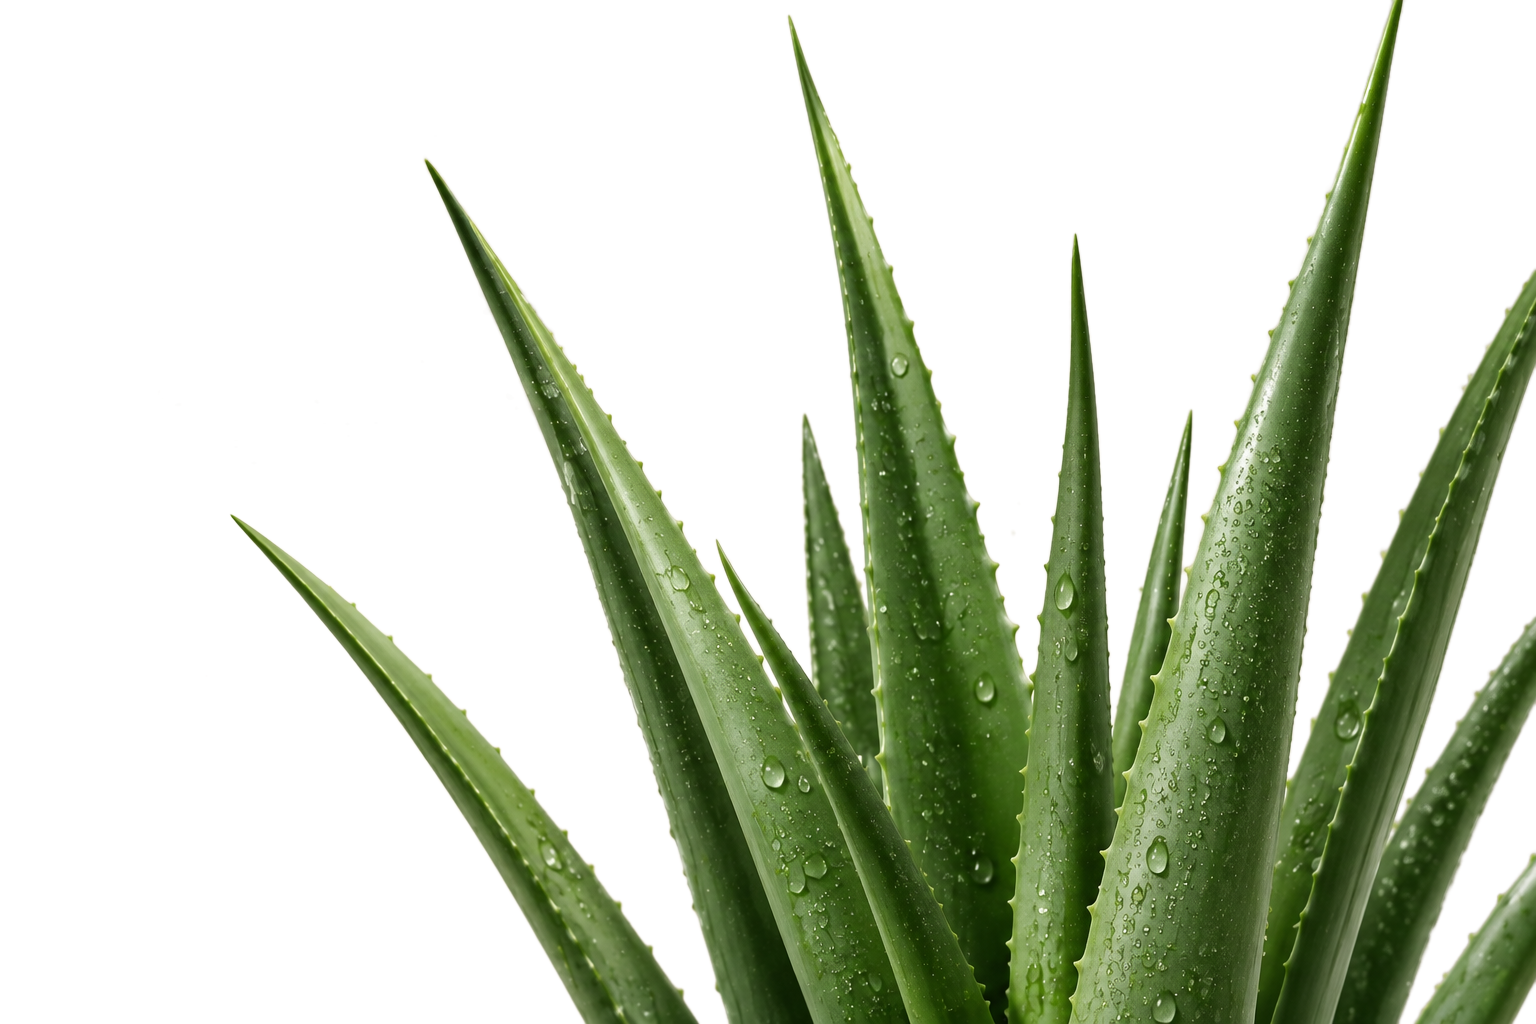
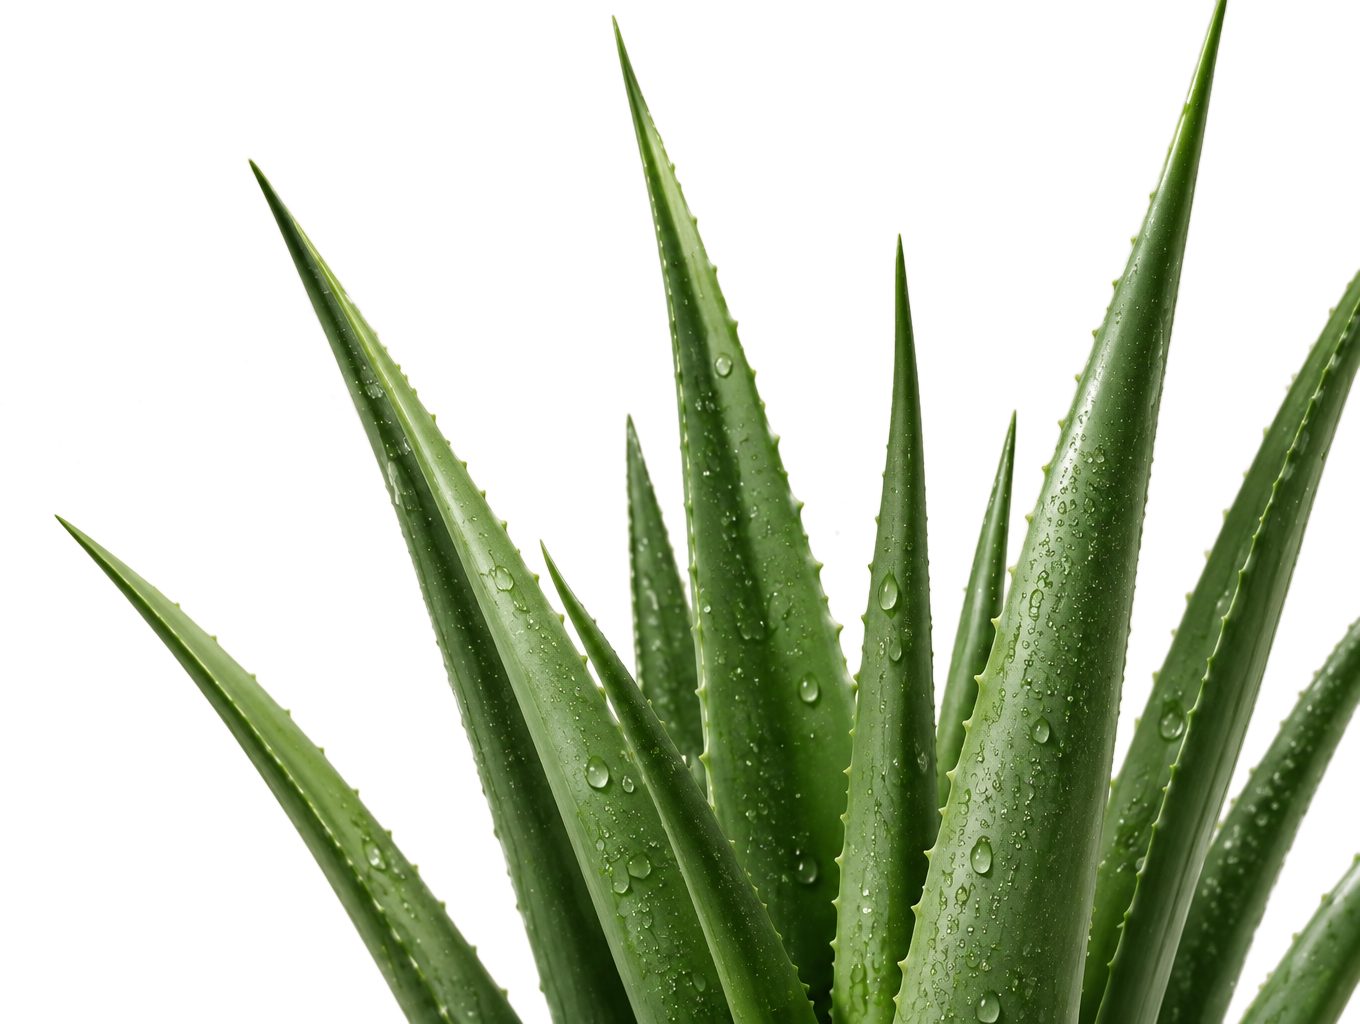
Show the sequence objects contained, not full-bleed
The aloe and the treatment photo now pass in front of a large pale word as
sized objects, matching the reference, instead of filling the frame. The
cut-out is trimmed to the plant so it centres on its own bounds, and the
unused back plate is dropped.

make-aloe-layers.py now emits only the cut-out and takes its source from
ALOE_SRC; its imports are restored.

diff --git a/src/components/NourishSection.tsx b/src/components/NourishSection.tsx
@@ -4,26 +4,23 @@ import Image from "next/image";
 import { useEffect, useRef, useState } from "react";
 
 /**
- * Scroll-driven botanical sequence.
+ * Scroll-driven statement section.
  *
- * The section is deliberately tall; its inner frame is sticky, so scrolling
- * through it scrubs a timeline rather than simply moving past it:
+ * A large pale word sits on a plain ground; objects pass in front of it as you
+ * scroll. The section is deliberately tall and its inner frame is sticky, so
+ * scrolling scrubs a timeline rather than simply moving past it:
  *
- *   1. the aloe rises from below the frame
- *   2. it holds, with the word interleaved between its two layers
- *   3. it drops back down out of frame
- *   4. the treatment photograph rises from below to take its place
+ *   1. the aloe rises from below and holds in front of the word
+ *   2. it drops back down out of frame
+ *   3. the treatment photograph rises from below to take its place
  *
- * The aloe is one photograph layered twice (make-aloe-layers.py): the plate
- * behind the word and a transparent cut-out over it, which is what lets the
- * leaves cross the letters. Both layers share a single offset - moving them
- * independently would show the plant twice.
+ * Objects are contained, not full-bleed - the word stays readable behind them.
  */
 
 const clamp = (n: number, lo: number, hi: number) => Math.min(hi, Math.max(lo, n));
 /** Normalised progress through one slice of the timeline. */
 const seg = (p: number, a: number, b: number) => clamp((p - a) / (b - a), 0, 1);
-/** Ease so the arrivals settle rather than stop dead. */
+/** Ease so arrivals settle rather than stop dead. */
 const ease = (t: number) => 1 - Math.pow(1 - t, 3);
 
 export default function NourishSection({
@@ -42,7 +39,7 @@ export default function NourishSection({
     if (!el) return;
 
     if (window.matchMedia("(prefers-reduced-motion: reduce)").matches) {
-      // Hold the sequence at the point where the aloe is composed with the word.
+      // Hold at the point where the aloe is composed with the word.
       const id = requestAnimationFrame(() => {
         setP(0.35);
         setReady(true);
@@ -71,48 +68,28 @@ export default function NourishSection({
     };
   }, []);
 
-  // Aloe: in over 0-0.30, holds, then back down over 0.46-0.68.
-  const aloeY = (1 - ease(seg(p, 0, 0.3))) * 105 + ease(seg(p, 0.46, 0.68)) * 105;
-  // Face: starts rising while the aloe is still on its way down, so the frame
-  // never sits empty between the two.
-  const faceY = (1 - ease(seg(p, 0.48, 0.86))) * 105;
+  // Percentages are of each object's own height, and the frame clips, so 125
+  // parks it fully out of sight below.
+  const aloeY = (1 - ease(seg(p, 0, 0.3))) * 125 + ease(seg(p, 0.46, 0.68)) * 125;
+  const faceY = (1 - ease(seg(p, 0.48, 0.86))) * 125;
 
-  const aloeStyle = { transform: `translate3d(0, ${aloeY}%, 0)` };
-  const faceStyle = { transform: `translate3d(0, ${faceY}%, 0)` };
-  const plate = "object-cover object-bottom";
-
-  // The word settles in with the aloe and stays for the whole sequence.
-  const lettersIn = ready && p > 0.04;
+  const lettersIn = ready && p > 0.03;
 
   return (
-    <section
-      ref={ref}
-      aria-label={word}
-      className="relative h-[280vh] bg-[#f1ede7]"
-    >
+    <section ref={ref} aria-label={word} className="relative h-[280vh] bg-[#f3f1ea]">
       <div className="sticky top-0 h-screen overflow-hidden">
-        {/* 4. Treatment photograph, arriving last and sitting furthest back */}
-        <div aria-hidden="true" className="absolute inset-0 will-change-transform" style={faceStyle}>
-          <Image src="/ritual-face.jpg" alt="" fill sizes="100vw" className="object-cover object-center" />
-        </div>
-
-        {/* 1. Aloe plate, behind the word */}
-        <div aria-hidden="true" className="absolute inset-0 will-change-transform" style={aloeStyle}>
-          <Image src="/aloe-back.jpg" alt="" fill sizes="100vw" className={plate} />
-        </div>
-
-        {/* 2. The word */}
-        <div className="absolute inset-x-0 top-[18%] px-6 sm:top-[20%]">
+        {/* The word, pale, behind everything */}
+        <div className="absolute inset-x-0 top-[26%] px-6">
           <h2 className="text-center">
             <span className="sr-only">{word}</span>
             <span
               aria-hidden="true"
-              className="flex justify-center font-display font-normal uppercase leading-none tracking-[0.02em] text-forest"
+              className="flex justify-center font-display font-normal uppercase leading-none tracking-[0.04em] text-forest/20"
             >
               {word.split("").map((letter, i) => (
                 <span
                   key={i}
-                  className={`inline-block text-[3rem] transition-all duration-[900ms] ease-out sm:text-[5.5rem] lg:text-[8.5rem] ${
+                  className={`inline-block text-[3.25rem] transition-all duration-[900ms] ease-out sm:text-[6rem] lg:text-[9rem] ${
                     lettersIn ? "translate-y-0 opacity-100" : "translate-y-6 opacity-0"
                   }`}
                   style={{ transitionDelay: `${i * 70}ms` }}
@@ -122,29 +99,54 @@ export default function NourishSection({
               ))}
             </span>
           </h2>
+        </div>
 
+        {/* Caption */}
+        <div
+          className={`container-page absolute inset-x-0 top-[12%] transition-all duration-1000 ease-out ${
+            lettersIn ? "translate-y-0 opacity-100" : "translate-y-4 opacity-0"
+          }`}
+          style={{ transitionDelay: `${word.length * 70 + 120}ms` }}
+        >
+          <p className="text-[0.7rem] font-medium uppercase leading-[1.9] tracking-[0.24em] text-forest/80 sm:text-xs">
+            {caption[0]}
+            <br />
+            {caption[1]}
+          </p>
+          <span aria-hidden="true" className="mt-4 block h-px w-14 bg-forest/30" />
+        </div>
+
+        {/* Object slot 1 — the aloe, on transparency */}
+        <div className="pointer-events-none absolute inset-x-0 bottom-[6%] flex justify-center">
           <div
-            className={`container-page mt-8 transition-all duration-1000 ease-out sm:mt-12 ${
-              lettersIn ? "translate-y-0 opacity-100" : "translate-y-4 opacity-0"
-            }`}
-            style={{ transitionDelay: `${word.length * 70 + 120}ms` }}
+            className="w-[min(74vw,34rem)] will-change-transform"
+            style={{ transform: `translate3d(0, ${aloeY}%, 0)` }}
           >
-            <p className="text-[0.7rem] font-medium uppercase leading-[1.9] tracking-[0.24em] text-forest/85 sm:text-xs">
-              {caption[0]}
-              <br />
-              {caption[1]}
-            </p>
-            <span aria-hidden="true" className="mt-4 block h-px w-14 bg-forest/35" />
+            <Image
+              src="/aloe-front.png"
+              alt=""
+              width={1360}
+              height={1024}
+              sizes="(min-width: 1024px) 544px, 74vw"
+              className="h-auto w-full drop-shadow-[0_24px_48px_rgb(30_47_33_/_0.22)]"
+            />
           </div>
         </div>
 
-        {/* 3. Aloe cut-out, over the word - this is what crosses the letters */}
-        <div
-          aria-hidden="true"
-          className="pointer-events-none absolute inset-0 will-change-transform"
-          style={aloeStyle}
-        >
-          <Image src="/aloe-front.png" alt="" fill sizes="100vw" className={plate} />
+        {/* Object slot 2 — the treatment photograph, as a card */}
+        <div className="pointer-events-none absolute inset-x-0 bottom-[6%] flex justify-center">
+          <div
+            className="relative h-[46vh] w-[min(58vw,20rem)] overflow-hidden rounded-[1.75rem] shadow-2xl shadow-forest/25 will-change-transform sm:h-[52vh]"
+            style={{ transform: `translate3d(0, ${faceY}%, 0)` }}
+          >
+            <Image
+              src="/ritual-face.jpg"
+              alt=""
+              fill
+              sizes="(min-width: 1024px) 320px, 58vw"
+              className="object-cover object-center"
+            />
+          </div>
         </div>
       </div>
     </section>

diff --git a/make-aloe-layers.py b/make-aloe-layers.py
@@ -1,19 +1,21 @@
-"""Split the aloe photograph into a back plate and a front cut-out.
+"""Cut the aloe plant out of its photograph.
 
-The statement section needs the plant to sit BOTH behind and in front of the
-word. The back plate is the untouched photograph; the front layer is the plant
-alone on transparency, drawn over the type. Because the two are positioned
-identically, the doubled plant lines up exactly and reads as one.
+The statement section shows the plant as a centred object on a plain ground,
+so all that is needed is the plant on transparency, trimmed to its own bounds.
 
 Separation is by greenness (g - (r+b)/2): the wall is neutral (~0.5) and the
 leaves are ~50, so a soft ramp between the two gives clean antialiased edges.
 
-    python make-aloe-layers.py  ->  public/aloe-back.jpg, public/aloe-front.png
+    python make-aloe-layers.py  ->  public/aloe-front.png
 """
+import os
+
 from PIL import Image, ImageFilter
 import numpy as np
 
-SRC = "public/ChatGPT Image Aug 28, 2026, 05_14_08 PM.png"
+# Point this at the source photograph. The generated cut-out is what ships;
+# the original is not kept in the repo.
+SRC = os.environ.get("ALOE_SRC", "public/aloe-source.png")
 WIDTH = 1600           # output width; the source is 1536 so this is a mild upscale cap
 LO, HI = 3.0, 14.0     # greenness ramp: below LO fully transparent, above HI opaque
 
@@ -33,12 +35,12 @@ mask = mask.filter(ImageFilter.GaussianBlur(radius=0.7))
 
 front = img.copy()
 front.putalpha(mask)
+
+# Trim the transparent margin so the plant centres on its own bounds rather
+# than on the original frame, where it sits off to one side.
+bbox = mask.point(lambda v: 255 if v > 8 else 0).getbbox()
+front = front.crop(bbox)
 front.save("public/aloe-front.png", optimize=True)
 
-img.save("public/aloe-back.jpg", quality=86, optimize=True, progressive=True)
-
-import os
-
 print("aloe-front.png %s  %d KB" % (front.size, os.path.getsize("public/aloe-front.png") / 1024))
-print("aloe-back.jpg  %s  %d KB" % (img.size, os.path.getsize("public/aloe-back.jpg") / 1024))
-print("plant covers %.1f%% of the frame" % (100 * (np.asarray(mask) > 127).mean()))
+print("trimmed from %s" % (img.size,))

diff --git a/README.md b/README.md
@@ -103,25 +103,22 @@ Two things in that file need the clinic's review:
 
 ## Botanical statement section
 
-The aloe section is a scroll-driven sequence. The section is `280vh` tall with a
-sticky viewport-height frame, so scrolling through it scrubs a timeline: the aloe
-rises from below, holds with the word interleaved through it, drops back down,
-and the treatment photograph rises to replace it. Timings live in the `aloeY` /
-`faceY` expressions in `NourishSection.tsx`.
+A scroll-driven sequence. The section is `280vh` tall with a sticky
+viewport-height frame, so scrolling scrubs a timeline: a large pale word sits on
+a plain ground while objects pass in front of it — the aloe rises from below and
+holds, drops back down, then the treatment photograph rises to replace it.
+Timings are the `aloeY` / `faceY` expressions in `NourishSection.tsx`.
 
-It layers one photograph twice so the leaves sit both behind and in front of the
-word. `make-aloe-layers.py` produces both from the source photo:
+Objects are contained rather than full-bleed, so the word stays readable behind
+them. `public/aloe-front.png` is the plant on transparency, trimmed to its own
+bounds; regenerate it from a source photo with:
 
 ```bash
-python make-aloe-layers.py
+ALOE_SRC="path/to/photo.png" python make-aloe-layers.py
 ```
 
-- `public/aloe-back.jpg` — the untouched plate, behind the type
-- `public/aloe-front.png` — the plant alone on transparency, over the type
-
-Separation is by greenness, so it only works on a plant shot against a neutral
-wall. The two layers must keep identical positioning and move together; drifting
-them apart would reveal the plant twice.
+Separation is by greenness, so it only works for a plant shot against a neutral
+wall.
 
 ## Design tokens
 
